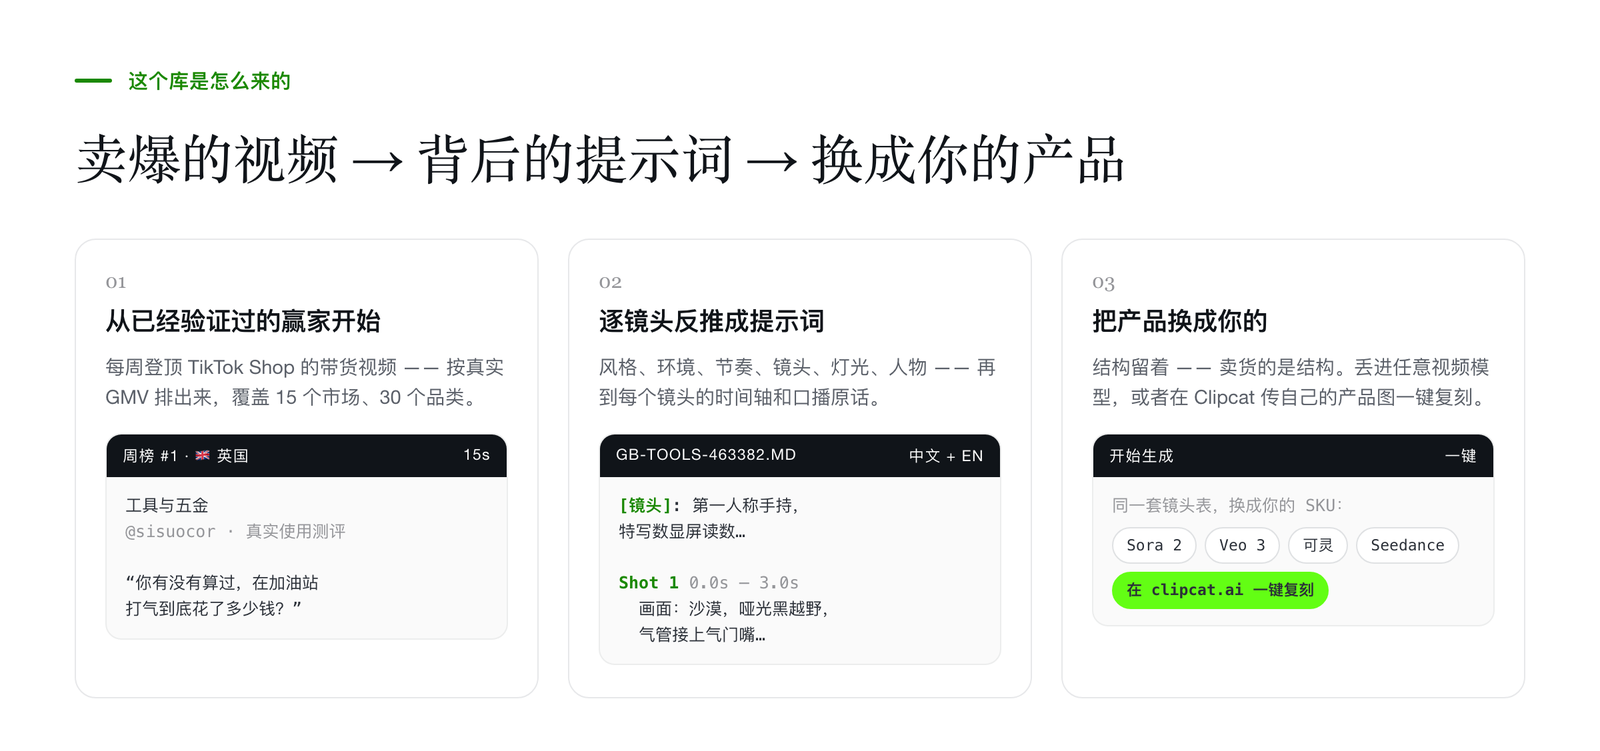
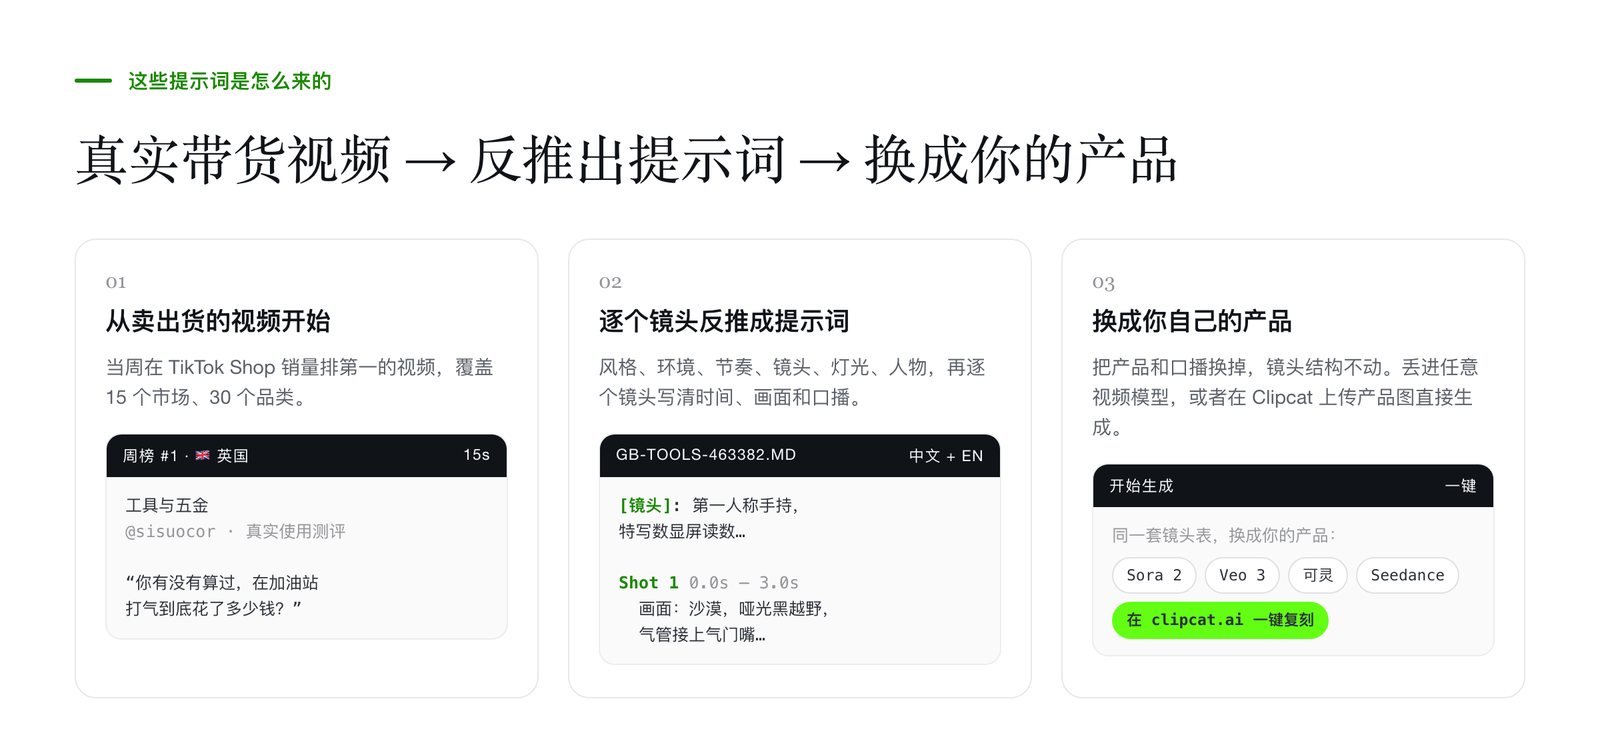
README: plainer wording in both languages
Replace the "readable, diffable layer" framing and other stylised phrases
with direct descriptions of what the repo is and how to use it, in the two
READMEs and in the how-it-works diagram.

Claude-Session: https://claude.ai/code/session_01XrfkWMap38ekSeH8ssXm61

diff --git a/README.md b/README.md
@@ -16,18 +16,18 @@
   <a href="https://clipcat.ai/en/tools/ai-tiktok-videos-prompt?utm_source=github&utm_medium=repo&utm_campaign=prompt-library"><img src="assets/clipcat-prompt-library.png" alt="Clipcat · AI Shoppable Videos & Prompt Library" width="900"></a>
 </p>
 
-**Prompts reverse-engineered from real TikTok Shop selling videos** — every one of them ranked #1 in its market and category for the week it went viral. Not hand-written prompts: each is a shot-by-shot reconstruction of a video that actually moved product, with the original video linked so you can check our work.
+**These prompts are reverse-engineered from real TikTok Shop selling videos.** Each one describes a video that ranked #1 by sales in its market and category that week. Nothing here is written by hand — every prompt is a shot-by-shot reconstruction of a real video, and every entry links to the video it came from.
 
-This repo is the open, readable cut of the [Clipcat AI Shoppable Videos & Prompt Library](https://clipcat.ai/en/tools/ai-tiktok-videos-prompt?utm_source=github&utm_medium=repo&utm_campaign=prompt-library) — **10,648+ viral AI shoppable videos across 15 markets and 30 categories, updated daily**. Read and diff the prompts here; search, filter and one-click replicate the whole thing there.
+This repo holds part of the [Clipcat video and prompt library](https://clipcat.ai/en/tools/ai-tiktok-videos-prompt?utm_source=github&utm_medium=repo&utm_campaign=prompt-library) as plain Markdown files, so you can read them on GitHub, grep them and fork them. The full library is on clipcat.ai: **10,648+ videos across 15 markets and 30 categories, updated daily**, with search, filters, and one-click replication using your own product photos.
 
 > 🤖 Want your AI agent to search this library and write a ready-to-shoot prompt for *your* product? 👉 [clipcat-skill](https://github.com/Clipcat-ai/clipcat-skill)
 
 ---
 
-## How it works
+## Where these prompts come from
 
 <p align="center">
-  <a href="https://clipcat.ai/en/tools/ai-tiktok-videos-prompt?utm_source=github&utm_medium=repo&utm_campaign=prompt-library"><img src="assets/how-it-works.png" alt="A video that sold, the prompt behind it, then your product" width="900"></a>
+  <a href="https://clipcat.ai/en/tools/ai-tiktok-videos-prompt?utm_source=github&utm_medium=repo&utm_campaign=prompt-library"><img src="assets/how-it-works.png" alt="Where these prompts come from: a video that sold, the prompt behind it, then your product" width="900"></a>
 </p>
 
 ---
@@ -37,12 +37,11 @@ This repo is the open, readable cut of the [Clipcat AI Shoppable Videos & Prompt
 Every file under `prompts/<market>/<category>/` holds one entry:
 
 - **the prompt, in English and Chinese** — style, environment, pacing, camera, lighting, cast, then a shot-by-shot breakdown with timings and spoken lines;
-- **the opening beat** — the line the video opens on (quoted verbatim when it was spoken in
-  English, translated when it was not) and the pain point it attacks;
+- **the opening line** — the first line spoken in the video (quoted as-is when it was in English, translated when it was not), and the pain point it targets;
 - **structured labels** — video format, hook type, who is on camera, promo mechanism, voiceover language;
 - **a link to the original TikTok video**, so you can watch what the prompt describes.
 
-We do not redistribute the videos, cover images, product photos or sales figures. See [NOTICE.md](./NOTICE.md).
+The repo does not include video files, cover images, product photos or sales figures. See [NOTICE.md](./NOTICE.md).
 
 ### What one looks like
 
@@ -50,7 +49,7 @@ We do not redistribute the videos, cover images, product photos or sales figures
   <a href="https://clipcat.ai/en/tools/ai-tiktok-videos-prompt/gb-tools-463382?utm_source=github&utm_medium=repo&utm_campaign=prompt-library"><img src="assets/prompt-detail.png" alt="The same entry on clipcat.ai: full prompt, structured labels, one-click Replicate" width="880"></a>
 </p>
 
-<p align="center"><sub>The entry below, <a href="https://clipcat.ai/en/tools/ai-tiktok-videos-prompt/gb-tools-463382?utm_source=github&utm_medium=repo&utm_campaign=prompt-library">as it looks on clipcat.ai</a> — same prompt, plus the original video and a one-click Replicate.</sub></p>
+<p align="center"><sub>The entry below, <a href="https://clipcat.ai/en/tools/ai-tiktok-videos-prompt/gb-tools-463382?utm_source=github&utm_medium=repo&utm_campaign=prompt-library">as it looks on clipcat.ai</a>: the same prompt, plus the original video and a Replicate button.</sub></p>
 
 <details open>
 <summary><b>Cordless Tyre Inflator Air… — Real Review (United Kingdom · Tools & Hardware)</b> — <code>gb-tools-463382</code></summary>
@@ -75,17 +74,17 @@ Shot 1:
 
 ## How to use these
 
-**With any video model.** Copy the English or Chinese prompt into Sora 2, Veo 3, Kling, Seedance or whatever you run. The prompts are model-agnostic prose; the shot list is the part that matters.
+**With any video model.** Copy the English or Chinese prompt into Sora 2, Veo 3, Kling, Seedance or whatever you run. The prompts are plain text and not tied to one model. The shot list is the part that matters.
 
-**Swap in your own product.** The prompts describe someone else's product. Replace the product nouns and the spoken lines, keep the structure — the structure is what sold.
+**Swap in your own product.** The prompts describe someone else's product. Replace the product names and the spoken lines, and keep the shot structure as it is.
 
-**With Clipcat.** Each entry links to the same prompt on [clipcat.ai](https://clipcat.ai/en/tools/ai-tiktok-videos-prompt?utm_source=github&utm_medium=repo&utm_campaign=prompt-library), where you can hit Replicate with your own product images and get the video back.
+**With Clipcat.** Each entry links to the same prompt on [clipcat.ai](https://clipcat.ai/en/tools/ai-tiktok-videos-prompt?utm_source=github&utm_medium=repo&utm_campaign=prompt-library), where you can upload your own product images and generate the whole video.
 
 ---
 
 ## The prompt format
 
-Read [docs/prompt-format.md](./docs/prompt-format.md) for what each block means and why it is there, and [docs/hook-taxonomy.md](./docs/hook-taxonomy.md) for the 13 opening-hook types and 13 video formats we label against.
+[docs/prompt-format.md](./docs/prompt-format.md) explains what each block means. [docs/hook-taxonomy.md](./docs/hook-taxonomy.md) lists the 13 opening-hook types and 13 video formats used as labels.
 
 ---
 
@@ -95,7 +94,7 @@ Read [docs/prompt-format.md](./docs/prompt-format.md) for what each block means 
   <a href="https://clipcat.ai/en/tools/ai-tiktok-videos-prompt?utm_source=github&utm_medium=repo&utm_campaign=prompt-library"><img src="assets/library-coverage.png" alt="Every market and category in the Clipcat library, with live video counts" width="880"></a>
 </p>
 
-Counts are live totals in the [Clipcat library](https://clipcat.ai/en/tools/ai-tiktok-videos-prompt?utm_source=github&utm_medium=repo&utm_campaign=prompt-library) — click any row to watch the videos and copy the prompt behind them. The entries mirrored into this repo sit under `prompts/<market>/<category>/`.
+The counts below are video totals on [clipcat.ai](https://clipcat.ai/en/tools/ai-tiktok-videos-prompt?utm_source=github&utm_medium=repo&utm_campaign=prompt-library). Click a row to see the videos and prompts for that market, category or format. The entries included in this repo are under `prompts/<market>/<category>/`.
 
 ### By market
 
@@ -143,7 +142,7 @@ Counts are live totals in the [Clipcat library](https://clipcat.ai/en/tools/ai-t
 
 ### By opening hook
 
-How the openings break down across the entries in this repo — the [taxonomy](./docs/hook-taxonomy.md#opening-hooks) explains what each one does.
+How the openings break down across the entries in this repo. The [taxonomy](./docs/hook-taxonomy.md#opening-hooks) explains what each hook means.
 
 | Hook | Share | Hook | Share |
 | --- | ---: | --- | ---: |
@@ -158,11 +157,11 @@ How the openings break down across the entries in this repo — the [taxonomy](.
 
 ## Machine-readable data
 
-`data/prompts.jsonl` — one JSON object per line, same fields as the front matter plus both prompts. Built for feeding an agent or a RAG index, not for reading.
+`data/prompts.jsonl` — one JSON object per line, with the same fields as the front matter plus both prompts. Meant for feeding an agent or building a RAG index, not for reading directly.
 
 ## Contributing
 
-Send us a **TikTok video link**, not a prompt — our pipeline reverse-engineers it and credits the creator. Corrections to existing entries are very welcome. See [CONTRIBUTING.md](./CONTRIBUTING.md).
+Send a **TikTok video link** rather than a prompt — our pipeline does the reverse-engineering and credits the creator. Corrections to existing entries are welcome too. See [CONTRIBUTING.md](./CONTRIBUTING.md).
 
 ## License
 

diff --git a/README_ZH.md b/README_ZH.md
@@ -16,18 +16,18 @@
   <a href="https://clipcat.ai/zh/tools/ai-tiktok-videos-prompt?utm_source=github&utm_medium=repo&utm_campaign=prompt-library"><img src="assets/clipcat-prompt-library-zh.png" alt="Clipcat · AI 带货视频与提示词库" width="900"></a>
 </p>
 
-**从真实 TikTok Shop 带货视频反推出来的提示词** —— 每一条都是它所在市场 × 品类当周的榜首。不是人手编的提示词：每条都是对一个真正卖出货的视频的逐镜头还原，原视频链接就附在旁边，可以自己核对。
+**这些提示词是从真实的 TikTok Shop 带货视频反推出来的。** 每条对应一个视频，这个视频当周在它所在的市场和品类里销量排第一。提示词不是人手编的，是照着原视频逐个镜头还原的，每条都附了原视频链接，可以自己对照。
 
-本仓库是 [Clipcat AI 带货视频与提示词库](https://clipcat.ai/zh/tools/ai-tiktok-videos-prompt?utm_source=github&utm_medium=repo&utm_campaign=prompt-library)里可读、可 diff 的那一层 —— 底库有 **10,648+ 条爆款 AI 带货视频，覆盖 15 个市场、30 个品类，每天更新**。在这里读提示词，去那边检索、筛选、一键复刻。
+本仓库把 [Clipcat 视频与提示词库](https://clipcat.ai/zh/tools/ai-tiktok-videos-prompt?utm_source=github&utm_medium=repo&utm_campaign=prompt-library) 里的一部分整理成了 Markdown 文件，可以直接在 GitHub 上看、用 grep 搜、fork 之后自己改。完整的库在 clipcat.ai 上：**10,648+ 条视频，覆盖 15 个市场、30 个品类，每天更新**，可以搜索、筛选，也可以传自己的产品图直接生成整条视频。
 
-> 🤖 想让你的 AI agent 直接检索这个库、针对**你自己的产品**产出一条能开拍的提示词？ 👉 [clipcat-skill](https://github.com/Clipcat-ai/clipcat-skill)
+> 🤖 想让 AI agent 检索这个库，针对**你自己的产品**直接生成一条可以拿去拍的提示词？ 👉 [clipcat-skill](https://github.com/Clipcat-ai/clipcat-skill)
 
 ---
 
-## 它是怎么来的
+## 这些提示词是怎么来的
 
 <p align="center">
-  <a href="https://clipcat.ai/zh/tools/ai-tiktok-videos-prompt?utm_source=github&utm_medium=repo&utm_campaign=prompt-library"><img src="assets/how-it-works-zh.png" alt="卖爆的视频 → 背后的提示词 → 换成你的产品" width="900"></a>
+  <a href="https://clipcat.ai/zh/tools/ai-tiktok-videos-prompt?utm_source=github&utm_medium=repo&utm_campaign=prompt-library"><img src="assets/how-it-works-zh.png" alt="真实带货视频 → 反推出提示词 → 换成你的产品" width="900"></a>
 </p>
 
 ---
@@ -36,12 +36,12 @@
 
 `prompts/<市场>/<品类>/` 下每个文件是一条：
 
-- **中英双语提示词** —— 风格、环境、节奏、镜头、灯光、人物，然后是带时间轴和口播的逐镜头拆解；
-- **开场那一下** —— 视频开场说的那句话（原文是英文的照引，不是英文的给英译），以及它打的痛点；
+- **中英双语提示词** —— 风格、环境、节奏、镜头、灯光、人物，再逐个镜头写清时间、画面和口播；
+- **开场第一句话** —— 视频开头说的那句话（原文是英文就照抄，不是英文就翻成英文），以及它对应的痛点；
 - **结构化标签** —— 视频形态、钩子类型、出镜情况、促销机制、口播语言；
-- **原 TikTok 视频链接**，提示词描述的是什么，可以直接看。
+- **原 TikTok 视频链接** —— 提示词写的是哪个视频，点开就能看。
 
-我们不转发视频、封面、商品图和销售数据。见 [NOTICE.md](./NOTICE.md)。
+仓库里不包含视频文件、封面图、商品图和销售数据。见 [NOTICE.md](./NOTICE.md)。
 
 ### 一条长什么样
 
@@ -49,7 +49,7 @@
   <a href="https://clipcat.ai/zh/tools/ai-tiktok-videos-prompt/gb-tools-463382?utm_source=github&utm_medium=repo&utm_campaign=prompt-library"><img src="assets/prompt-detail-zh.png" alt="同一条在 clipcat.ai 上：完整提示词、结构化标签、一键复刻" width="880"></a>
 </p>
 
-<p align="center"><sub>下面这条<a href="https://clipcat.ai/zh/tools/ai-tiktok-videos-prompt/gb-tools-463382?utm_source=github&utm_medium=repo&utm_campaign=prompt-library">在 clipcat.ai 上的样子</a> —— 同一份提示词，外加原视频和一键复刻。</sub></p>
+<p align="center"><sub>下面这条<a href="https://clipcat.ai/zh/tools/ai-tiktok-videos-prompt/gb-tools-463382?utm_source=github&utm_medium=repo&utm_campaign=prompt-library">在 clipcat.ai 上的页面</a>：同一份提示词，另外还有原视频和复刻按钮。</sub></p>
 
 <details open>
 <summary><b>Cordless Tyre Inflator Air… — Real Review (United Kingdom · Tools & Hardware)</b> — <code>gb-tools-463382</code></summary>
@@ -74,17 +74,17 @@ Shot 1:
 
 ## 怎么用
 
-**配任意视频模型用。** 把中文或英文提示词粘进 Sora 2、Veo 3、可灵、Seedance 或你在用的模型。提示词是模型无关的自然语言，真正关键的是镜头表。
+**配任意视频模型用。** 把中文或英文提示词粘进 Sora 2、Veo 3、可灵、Seedance 或你在用的模型。提示词是普通文本，不挑模型，关键的是镜头表。
 
-**换成你自己的产品。** 提示词描述的是别人的产品。把产品名词和口播换掉，**结构留着** —— 卖货的是结构。
+**换成你自己的产品。** 提示词写的是别人的产品。把产品名称和口播换成你自己的，镜头结构保持不动。
 
-**配 Clipcat 用。** 每条都链到 [clipcat.ai](https://clipcat.ai/zh/tools/ai-tiktok-videos-prompt?utm_source=github&utm_medium=repo&utm_campaign=prompt-library) 上的同一条提示词，在那儿可以直接传自己的产品图一键复刻。
+**在 Clipcat 上用。** 每条都链到 [clipcat.ai](https://clipcat.ai/zh/tools/ai-tiktok-videos-prompt?utm_source=github&utm_medium=repo&utm_campaign=prompt-library) 上的同一条提示词，在那里上传自己的产品图，可以直接生成整条视频。
 
 ---
 
 ## 提示词格式
 
-每个区块什么意思、为什么这么切，见 [docs/prompt-format.md](./docs/prompt-format.md)；13 种开场钩子和 13 种视频形态的定义见 [docs/hook-taxonomy.md](./docs/hook-taxonomy.md)。
+每个区块是什么意思，见 [docs/prompt-format.md](./docs/prompt-format.md)；13 种开场钩子和 13 种视频形态的定义，见 [docs/hook-taxonomy.md](./docs/hook-taxonomy.md)。
 
 ---
 
@@ -94,7 +94,7 @@ Shot 1:
   <a href="https://clipcat.ai/zh/tools/ai-tiktok-videos-prompt?utm_source=github&utm_medium=repo&utm_campaign=prompt-library"><img src="assets/library-coverage-zh.png" alt="Clipcat 库覆盖的全部市场与品类，附实时视频数" width="880"></a>
 </p>
 
-下面的数字是 [Clipcat 库](https://clipcat.ai/zh/tools/ai-tiktok-videos-prompt?utm_source=github&utm_medium=repo&utm_campaign=prompt-library)里的实时总量 —— 点任意一行即可看视频、抄它背后的提示词。同步到本仓库的条目放在 `prompts/<市场>/<品类>/` 下。
+下面的数字是 [clipcat.ai](https://clipcat.ai/zh/tools/ai-tiktok-videos-prompt?utm_source=github&utm_medium=repo&utm_campaign=prompt-library) 上的视频总数。点任意一行，可以看到这个市场、品类或形态下的视频和提示词。本仓库收录的条目放在 `prompts/<市场>/<品类>/` 目录下。
 
 ### 按市场
 
@@ -142,7 +142,7 @@ Shot 1:
 
 ### 按开场钩子
 
-本仓库这些条目的开场分布 —— 每种钩子具体怎么用，见[钩子分类](./docs/hook-taxonomy.md#opening-hooks)。
+本仓库这些条目的开场类型分布。每种钩子是什么意思，见[钩子分类](./docs/hook-taxonomy.md#opening-hooks)。
 
 | 钩子 | 占比 | 钩子 | 占比 |
 | --- | ---: | --- | ---: |
@@ -157,11 +157,11 @@ Shot 1:
 
 ## 机器可读数据
 
-`data/prompts.jsonl` —— 一行一个 JSON，字段与文件头一致，外加中英双语提示词全文。给 agent 或 RAG 索引吃的，不是给人读的。
+`data/prompts.jsonl` —— 一行一个 JSON 对象，字段和文件头部一致，另外带中英文提示词全文。用来给 agent 调用或建 RAG 索引，不适合直接阅读。
 
 ## 参与贡献
 
-给我们**视频链接**，不是提示词 —— 反推交给我们的流水线，署名归原作者。已有条目的纠错非常欢迎。见 [CONTRIBUTING.md](./CONTRIBUTING.md)。
+请提交 **TikTok 视频链接**，不用自己写提示词 —— 反推由我们的流水线完成，并会标注原作者。也欢迎纠正已有条目里的错误。见 [CONTRIBUTING.md](./CONTRIBUTING.md)。
 
 ## 许可
 
